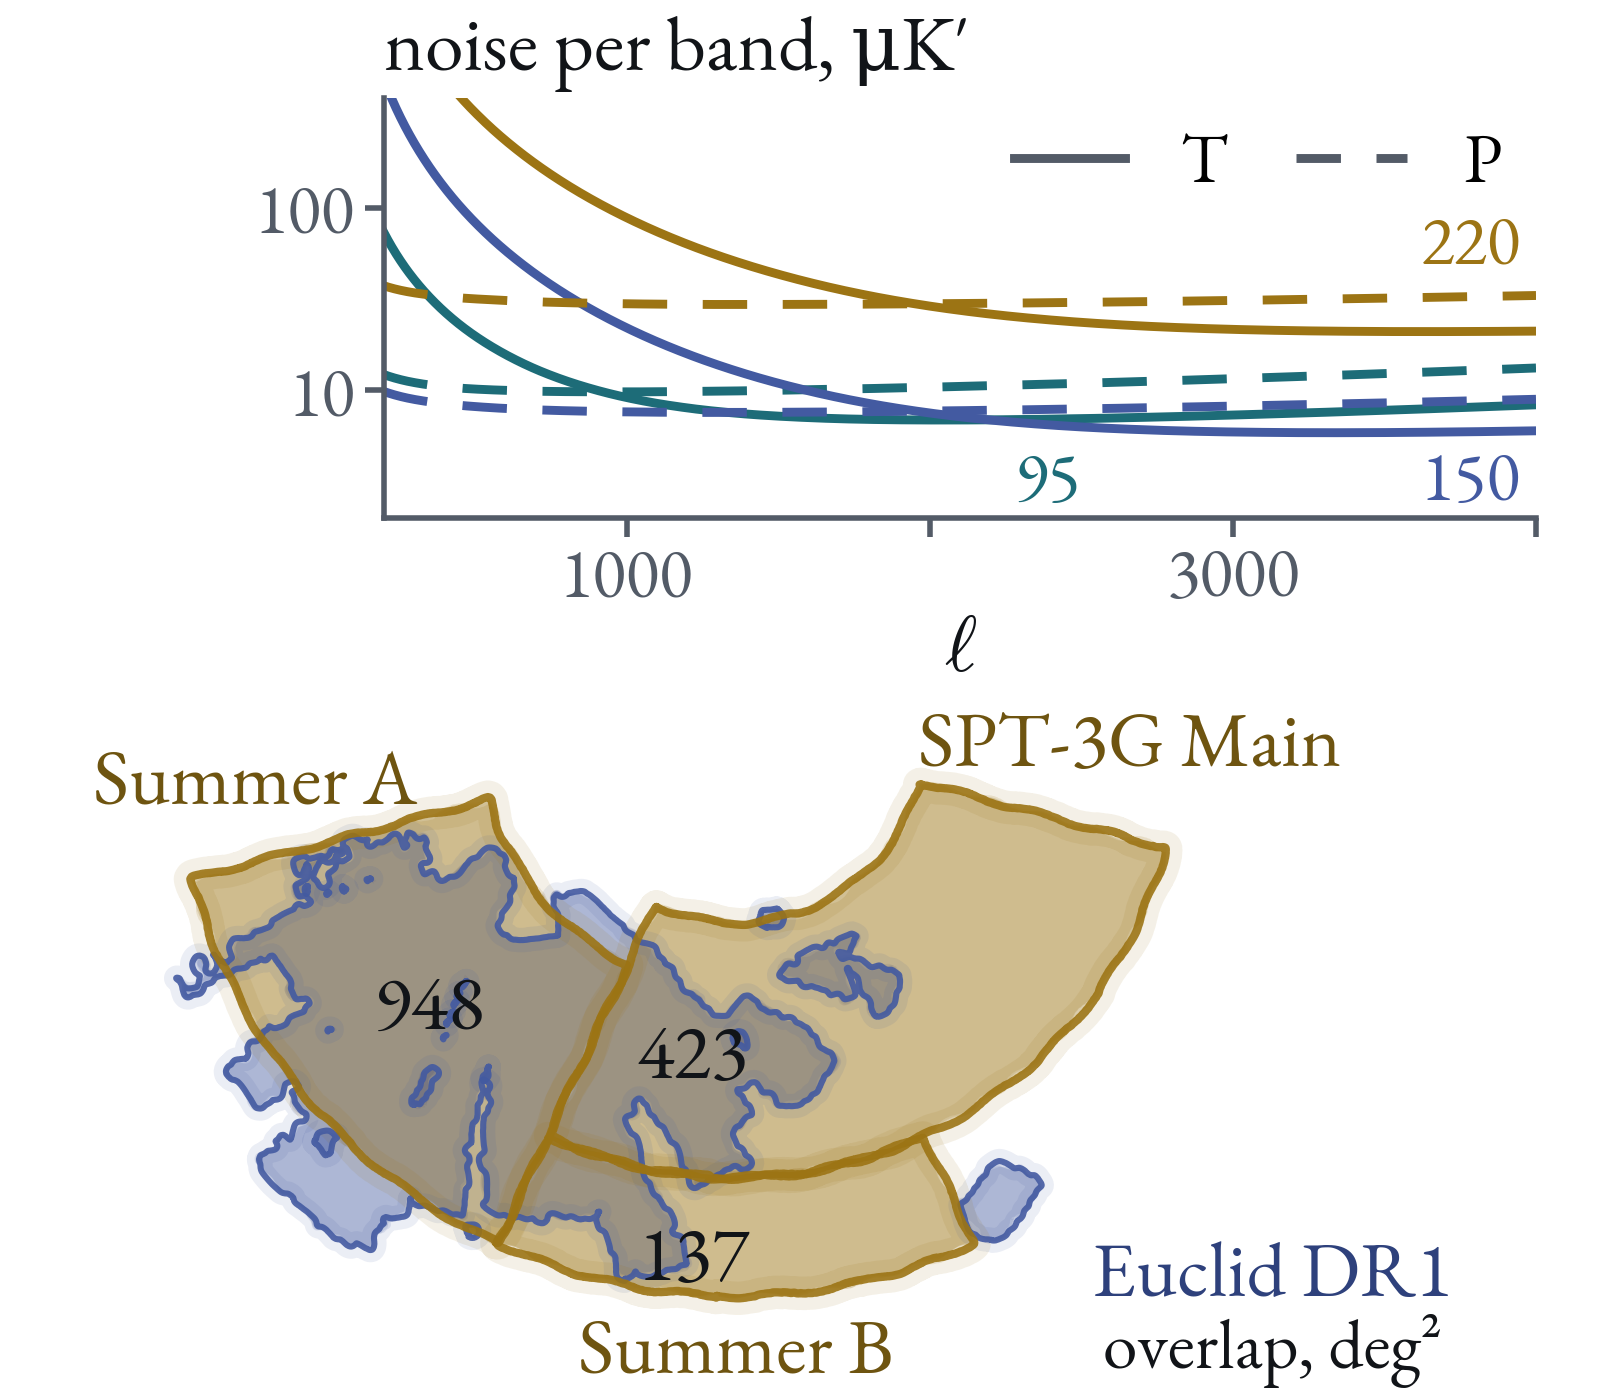
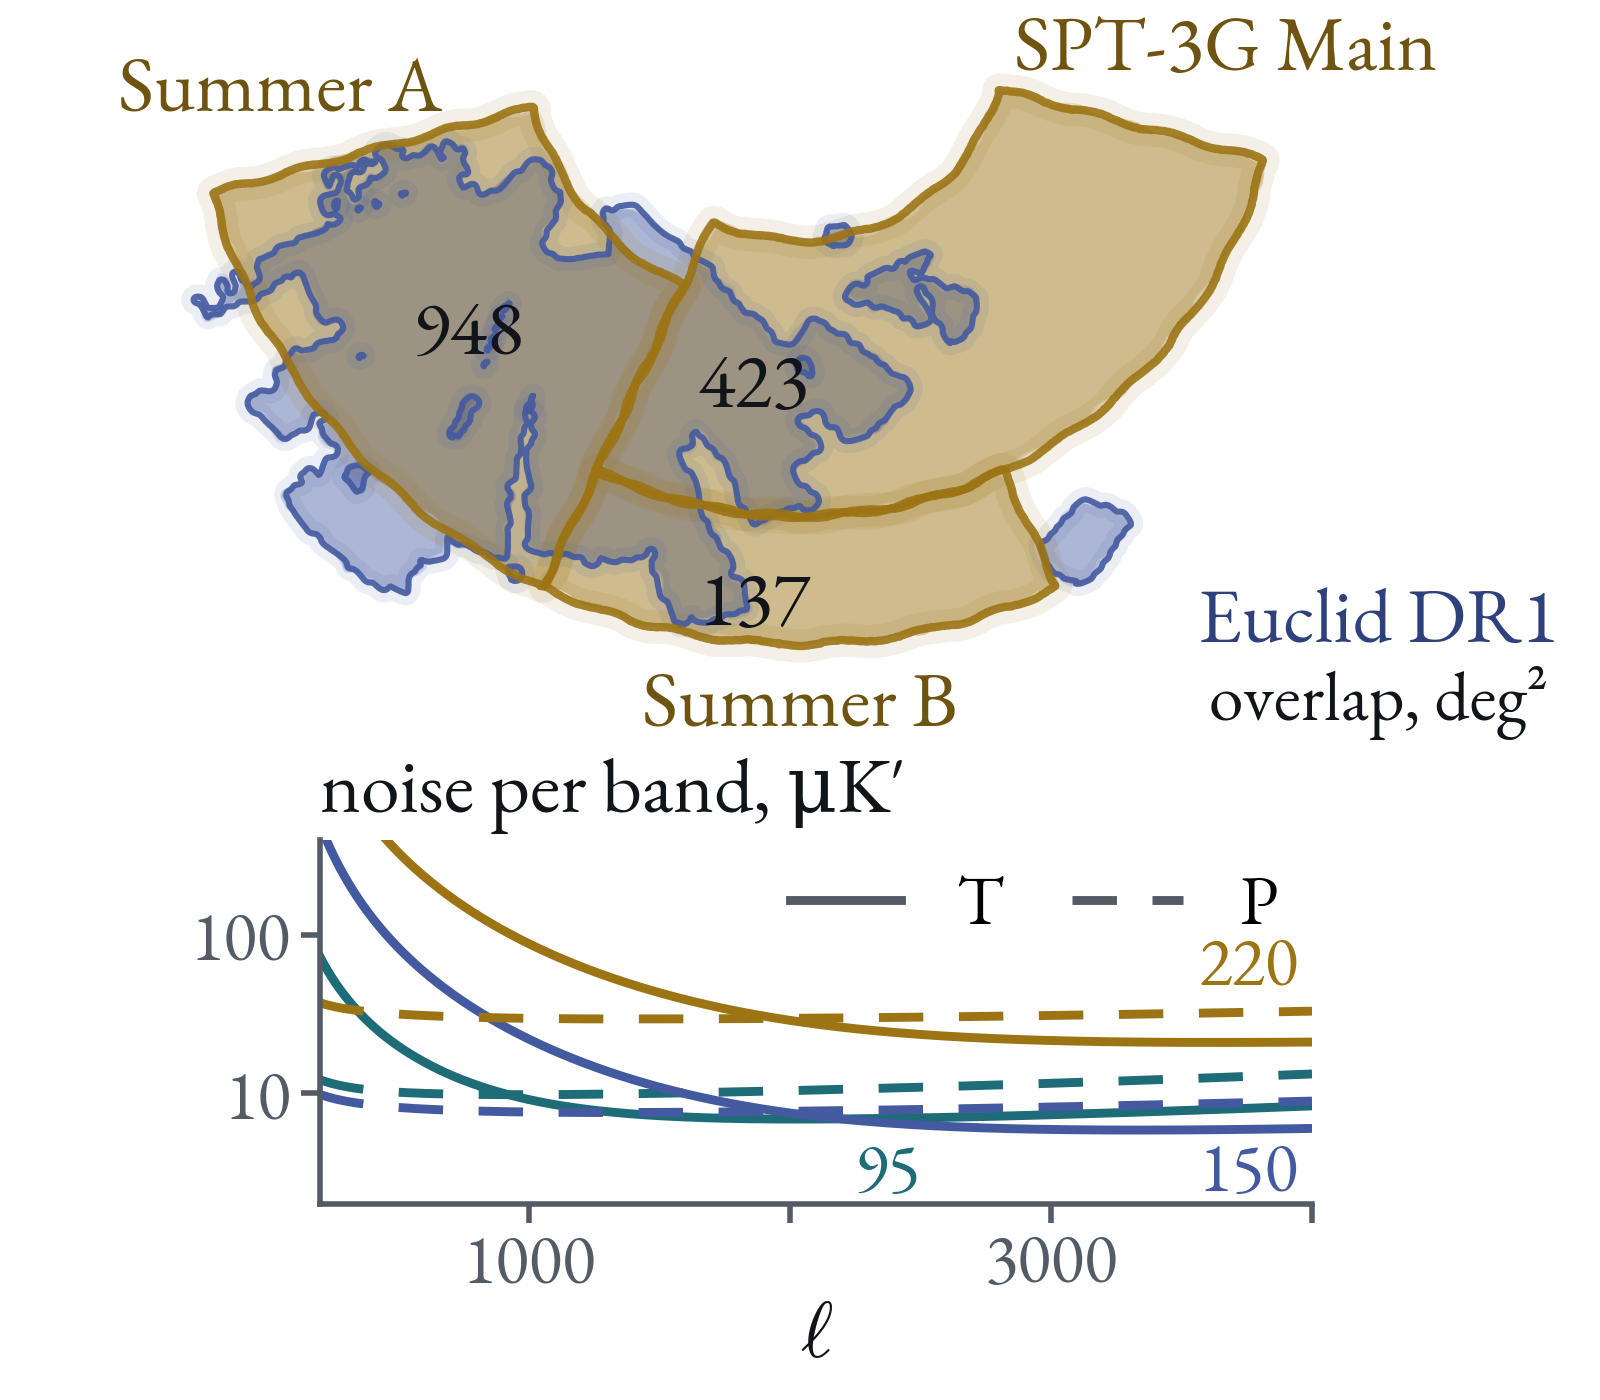
Paris SWG deck: covariance opener order and naming; name and session on each opener; masks above noise
Claude-Session: https://claude.ai/code/session_01JK7o9DgWZgiWoB9jhm8TMM

diff --git a/2611_Paris_SWG/slides/cov-spt-public.html b/2611_Paris_SWG/slides/cov-spt-public.html
@@ -1,31 +1,28 @@
 <section data-layout="figure-text" data-flip data-split="50">
-  <h2>SPT-like mocks: inputs from public sources</h2>
+  <h2>Public inputs for SPT-like mocks</h2>
   <figure>
     <img src="images/paris26_cov_spt_public_sketch.png" alt="The SPT-3G Main, Summer A and Summer B footprints over the Euclid DR1 footprint with overlap areas in square degrees, and the noise curve of each band in temperature and polarization">
   </figure>
   <div class="text">
   <ul>
-    <li>A generic quadratic estimator</li>
     <li>Masks: Main, Summer A and B</li>
     <li>Noise levels per band, T and P</li>
     <li>500 noise maps per band (D1)</li>
-    <li>Any number can be made</li>
   </ul>
   </div>
   <p class="source">Leonardo: /leonardo_work/EUHPC_E07_074/cmbx/inputs/spt/public_covariance_package (README.md)</p>
   <aside class="notes">
     <ul class="skim">
-      <li><strong>What it is for</strong> — a generic quadratic-estimator κ reconstruction, run by the covariance team on simulated CMB with SPT-3G's footprint and noise, so that covariance mocks for the κ blocks can start before SPT's own reconstructions can be shared. Every number comes from a public paper or data release; nothing derives from internal SPT products.</li>
+      <li><strong>What it is for</strong> — the inputs for mocks with SPT-3G's footprint and noise, for the covariance team to run a lensing reconstruction of its choice on simulated CMB, so that mocks for the κ blocks can start before SPT's own reconstructions can be shared. Every number comes from a public paper or data release; nothing derives from internal SPT products.</li>
       <li><strong>Masks</strong> — in the package, RA/Dec boxes built from the published field boundaries (HEALPix $N_\mathrm{side} = 2048$, RING, equatorial, binary and apodized), not survey pixel masks. For the Main field the public D1 release has the real pixel masks, which should be used; for the Summer fields no mask file is public until their release (announced for early 2027), so the boxes are the best public option. Overlap with the observed DR1 footprint: Main 423 deg², Summer A 948 deg², Summer B 137 deg²; Summer C has none and is left out.</li>
       <li><strong>Noise</strong> — white level, atmospheric knee and slope, and beam per band (95, 150, 220 GHz), with beam-deconvolved noise curves. The Summer lensing analysis is temperature-only, so only the Summer temperature noise matters. Summer beams are not public separately; the D1 Main beams stand in for them, which is close but not exact.</li>
       <li><strong>Public D1 release</strong> — the SPT-3G D1 Main-field release has the survey pixel masks and 500 sign-flip noise realizations per band; for Main-field mocks these are better than the package's boxes and noise model.</li>
-      <li><strong>Any number</strong> — these mocks are not conditioned on an experiment's own simulated reconstructions, so their number is not limited by how many simulations SPT has.</li>
     </ul>
     <details><summary>How this differs from constrained realizations</summary>
     <p>Constrained realizations on SPT's own lensing reconstructions of its simulations carry the real estimator, filtering and masks, and there are as many as SPT has simulations. The public route needs none of SPT's products and is not limited in number.</p>
     </details>
     <details><summary>The sketch</summary>
-    <p>Drawn from the package's own files by make_cov_figures.py in the deck directory, in a hand-drawn style. <strong>Left:</strong> the Main, Summer A and Summer B box masks (ochre) over the observed Euclid DR1 wide footprint (blue: the union of DR1_R1 and DR1_R2 MER VIS tiles, 2341 deg², not an analysis mask), in an equal-area view about the south celestial pole; outlines are lightly smoothed, and the numbers are each field's overlap in deg², recomputed from the same maps. <strong>Right:</strong> the beam-deconvolved noise model of the D1 Main field per band, temperature solid and polarization dashed.</p>
+    <p>Drawn from the package's own files by make_cov_figures.py in the deck directory, in a hand-drawn style. <strong>Top:</strong> the Main, Summer A and Summer B box masks (ochre) over the observed Euclid DR1 wide footprint (blue: the union of DR1_R1 and DR1_R2 MER VIS tiles, 2341 deg², not an analysis mask), in an equal-area view about the south celestial pole; outlines are lightly smoothed, and the numbers are each field's overlap in deg², recomputed from the same maps. <strong>Bottom:</strong> the beam-deconvolved noise model of the D1 Main field per band, temperature solid and polarization dashed.</p>
     </details>
     <details><summary>Sources</summary>
     <p>SPT-3G D1 maps release (Quan et al. 2026, arXiv:2603.20163); Camphuis et al. 2025 (arXiv:2506.20707) for noise levels; SPT-3G D1 quadratic-estimator lensing (arXiv:2608.31136) and its public likelihood data; the Summer two-year temperature lensing paper (arXiv:2607.05784); Prabhu et al. 2024 (arXiv:2403.17925) for the noise knees.</p>

diff --git a/2611_Paris_SWG/slides/cov-spt-constrained.html b/2611_Paris_SWG/slides/cov-spt-constrained.html
@@ -1,11 +1,10 @@
 <section data-layout="points">
-  <h2>Constrained realizations on SPT's simulations</h2>
+  <h2>SPT-constrained mocks</h2>
   <ul>
-    <li>Inputs: the same footprints, and SPT's κ reconstructions of its simulations</li>
+    <li>Needs the same masks, plus SPT's lensing maps of its own simulations</li>
     <li>SPT has 350–400 simulations, winter and summer fields</li>
     <li>Sharing them waits on Euclid status for SPT's external collaborators</li>
   </ul>
-  <p><strong class="accent">Output wanted:</strong> covariances for the κ crosses, calibrated the same way as the ACT and Planck ones</p>
   <aside class="notes">
     <ul class="skim">
       <li><strong>What it is</strong> — mock Euclid fields conditioned on the κ of each SPT simulation, paired with SPT's own lensing reconstruction of that simulation, so the mocks carry SPT's real estimator, filtering, masks and reconstruction noise.</li>

diff --git a/2611_Paris_SWG/slides/covariance.html b/2611_Paris_SWG/slides/covariance.html
@@ -1,6 +1,6 @@
 <section data-layout="section">
   <h2>SPT covariance</h2>
-  <p>1. SPT-constrained mocks for accuracy<br>2. SPT-like mocks for as many samples as needed<br>3. The two combined, with control variates (CARPool-type)</p>
+  <p>1. SPT-like mocks possible now<br>2. SPT-constrained mocks soon<br>3. The two combined using control variates<br><br><span class="muted">Cail Daley · Simulations session</span></p>
   <aside class="notes">
     <ul class="skim">
       <li><strong>Scope</strong> — what the SPT × Euclid 6×2pt analysis needs from the covariance effort (Pauline Vielzeuf, Davide Luchina) for its κ blocks, as data products: what goes in and what should come out.</li>

diff --git a/2611_Paris_SWG/slides/blinding.html b/2611_Paris_SWG/slides/blinding.html
@@ -1,6 +1,6 @@
 <section data-layout="section">
   <h2>Blinding</h2>
-  <p>1. What are the other Euclid groups doing?<br>2. How do we choose our blind?<br>3. How do we compare with other groups?</p>
+  <p>1. What are the other Euclid groups doing?<br>2. How do we choose our blind?<br>3. How do we compare with other groups?<br><br><span class="muted">Cail Daley · Blinding session</span></p>
   <aside class="notes">
     <ul class="skim">
       <li><strong>The session</strong> — day 2 of the CMBX SWG meeting, open to every CMBX key project, not only the 6×2pt analysis.</li>

diff --git a/2611_Paris_SWG/slides/cloe.html b/2611_Paris_SWG/slides/cloe.html
@@ -1,6 +1,6 @@
 <section data-layout="section">
   <h2>CLOE vs dr1_cmbx</h2>
-  <p>The same TR1 chains with two exact likelihoods</p>
+  <p>The same TR1 chains with two exact likelihoods<br><br><span class="muted">Cail Daley · Likelihood session</span></p>
   <aside class="notes">
     <ul class="skim">
       <li><strong>The question</strong> — does replacing the dr1_cmbx exact likelihood (eDR1like with CCL theory) by CLOE change the CMBX posteriors, their bias, or their cost?</li>

diff --git a/2611_Paris_SWG/make_cov_figures.py b/2611_Paris_SWG/make_cov_figures.py
@@ -168,7 +168,7 @@ def main():
     fig = plt.figure(figsize=(W_PX / DPI, H_PX / DPI), dpi=DPI)
 
     # footprints, left: equal-area so the washes compare as areas
-    ax = fig.add_axes([0.0, 0.0, 0.92, 0.50])
+    ax = fig.add_axes([0.04, 0.46, 0.92, 0.54])
     areas = sky(ax)
     ax.set_xlim(-1.18, 1.18)
     ax.set_ylim(-1.22, 0.06)
@@ -189,7 +189,7 @@ def main():
     # the two charts are drawn clean; only the footprint map is sketched
     plt.rcParams["path.sketch"] = None
     # noise per band
-    ax = fig.add_axes([0.24, 0.63, 0.72, 0.30])
+    ax = fig.add_axes([0.20, 0.14, 0.62, 0.26])
     noise(ax)
     ax.set_xticks([1000, 2000, 3000, 4000], ["1000", "", "3000", ""])
     ax.set_yticks([10, 100], ["10", "100"])
